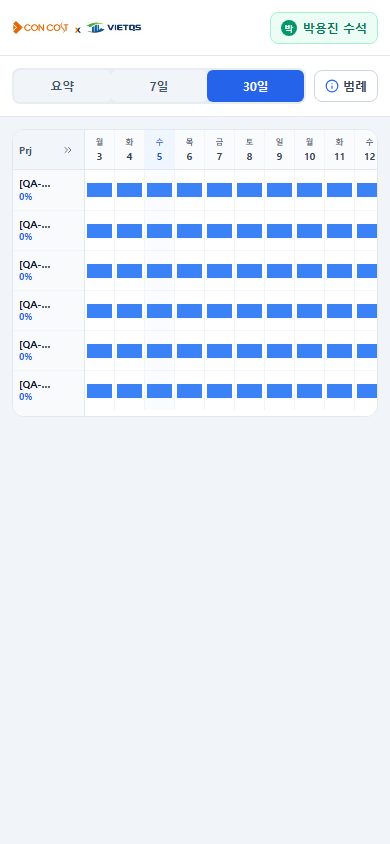
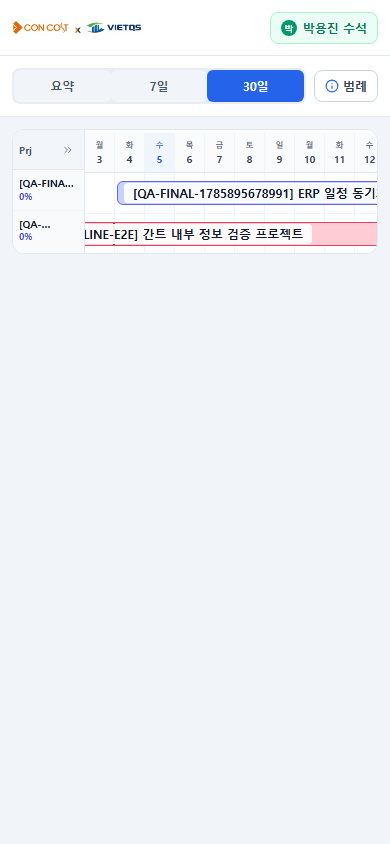
fix: align mobile gantt and deployed build metadata

Changed region(s): [[0.2154, 0.154, 0.9846, 0.4929], [0.0308, 0.3081, 0.0923, 0.4929], [0.1231, 0.2156, 0.1846, 0.2464]]

diff --git a/tests/e2e/gantt-inline-content.spec.ts b/tests/e2e/gantt-inline-content.spec.ts
@@ -54,13 +54,14 @@ test.describe('Strict Gantt Inline Content & Build SHA E2E Suite', () => {
     createdProjectId = prjJson.id || prjJson.data?.id;
 
     // 2. Create QA Task inside the Project
-    const taskRes = await fetch(`${QA_BASE_URL}/api/projects/${createdProjectId}/tasks`, {
+    const taskRes = await fetch(`${QA_BASE_URL}/api/tasks`, {
       method: 'POST',
       headers: {
         'Content-Type': 'application/json',
         'x-editor-name': encodeURIComponent('박용진 수석'),
       },
       body: JSON.stringify({
+        project_id: createdProjectId,
         task_name: `[QA-INLINE-E2E] 상세 작업 막대 검증`,
         start_date: '2026-08-01',
         end_date: '2026-08-20',
@@ -75,12 +76,18 @@ test.describe('Strict Gantt Inline Content & Build SHA E2E Suite', () => {
   });
 
   test.afterAll(async () => {
-    // Cleanup created QA Project and Task
-    if (createdProjectId) {
-      await fetch(`${QA_BASE_URL}/api/projects/${createdProjectId}`, {
-        method: 'DELETE',
-        headers: { 'x-editor-name': encodeURIComponent('박용진 수석') },
-      });
+    // Delete all [QA-INLINE-E2E] projects
+    const listRes = await fetch(`${QA_BASE_URL}/api/projects`);
+    const listJson: any = await listRes.json();
+    if (listJson.data && Array.isArray(listJson.data)) {
+      for (const p of listJson.data) {
+        if (p.name && p.name.includes('[QA-INLINE-E2E]')) {
+          await fetch(`${QA_BASE_URL}/api/projects/${p.id}`, {
+            method: 'DELETE',
+            headers: { 'x-editor-name': encodeURIComponent('박용진 수석') },
+          });
+        }
+      }
     }
 
     // Verify Zero [QA-INLINE-E2E] projects remaining
@@ -172,6 +179,10 @@ test.describe('Strict Gantt Inline Content & Build SHA E2E Suite', () => {
     const mobileGanttBtn = page.locator('[data-testid="mobile-view-gantt-btn"]');
     await expect(mobileGanttBtn).toBeVisible({ timeout: 10000 });
     await mobileGanttBtn.click();
+    await page.waitForTimeout(500);
+
+    const mobileView = page.locator('[data-testid="mobile-gantt-view"]');
+    await expect(mobileView).toBeVisible({ timeout: 15000 });
 
     const mobileBar = page.locator('[data-testid="mobile-gantt-schedule-bar"]').first();
     await expect(mobileBar).toBeVisible({ timeout: 15000 });
@@ -202,8 +213,9 @@ test.describe('Strict Gantt Inline Content & Build SHA E2E Suite', () => {
     expect(versionRes.status).toBe(200);
 
     const versionJson: any = await versionRes.json();
-    expect(versionJson.commit).toBeTruthy();
-    expect(typeof versionJson.commit).toBe('string');
+    const commitSha = versionJson.data?.commit || versionJson.commit;
+    expect(commitSha).toBeTruthy();
+    expect(typeof commitSha).toBe('string');
 
     await page.setViewportSize({ width: 1366, height: 768 });
     await page.goto('/projects');

diff --git a/worker/index.ts b/worker/index.ts
@@ -30,7 +30,11 @@ export interface Env {
 function jsonResponse(data: any, status = 200) {
   return new Response(JSON.stringify({ success: true, data }), {
     status,
-    headers: { 'Content-Type': 'application/json', 'Access-Control-Allow-Origin': '*' },
+    headers: {
+      'Content-Type': 'application/json',
+      'Access-Control-Allow-Origin': '*',
+      'Cache-Control': 'no-cache, no-store, must-revalidate',
+    },
   });
 }
 
